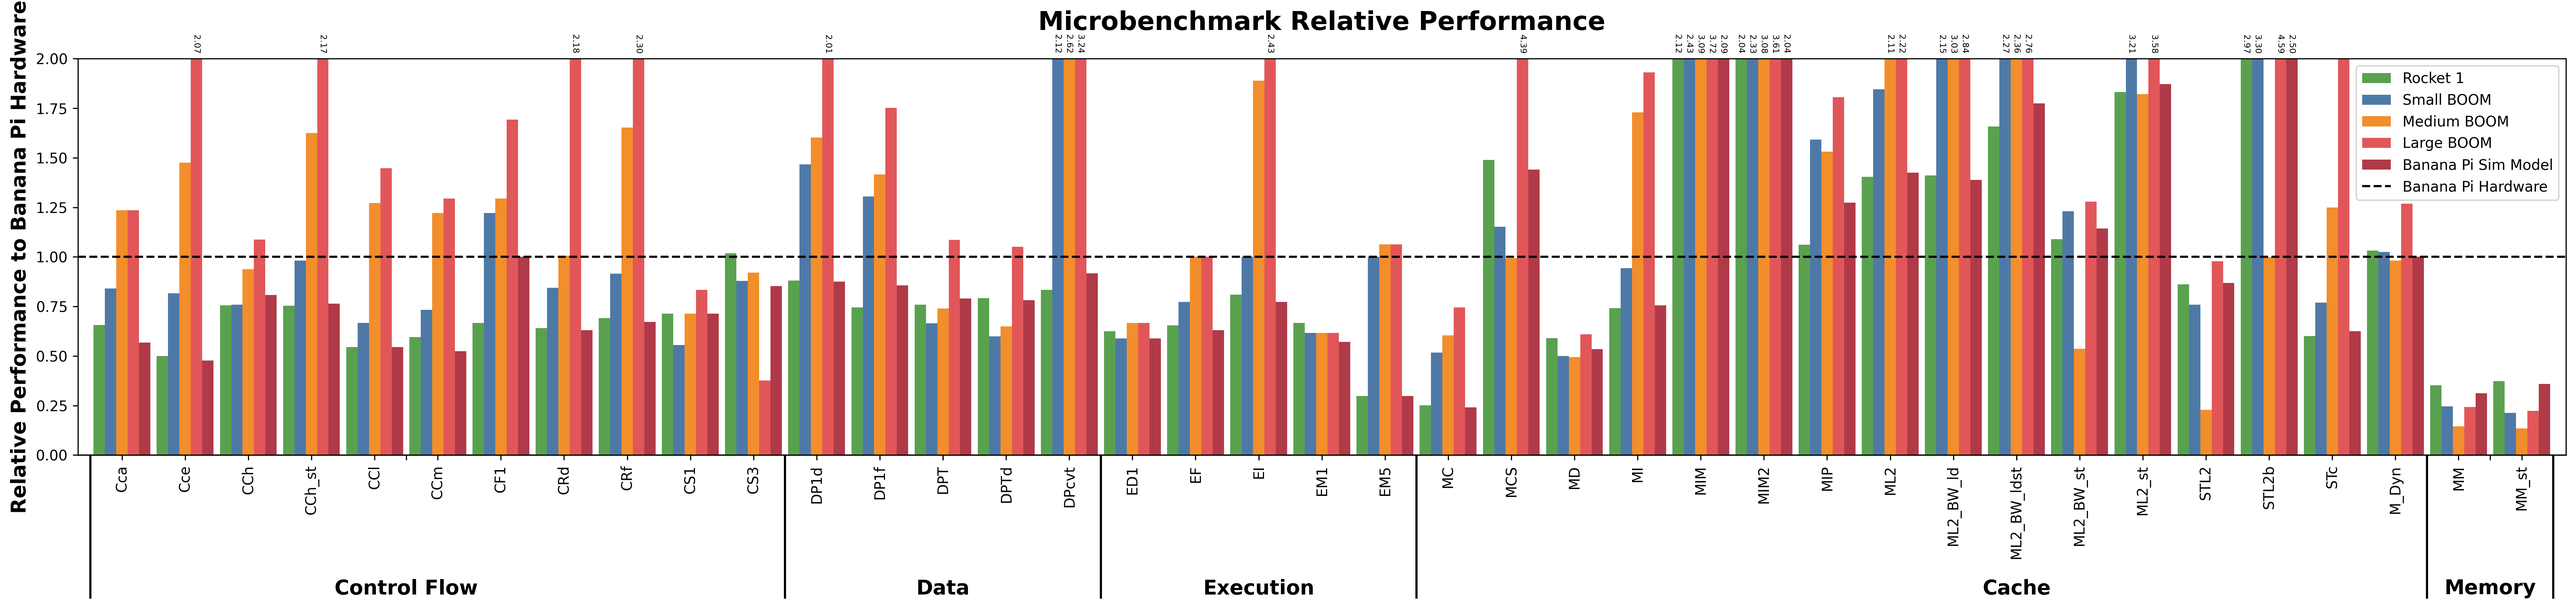
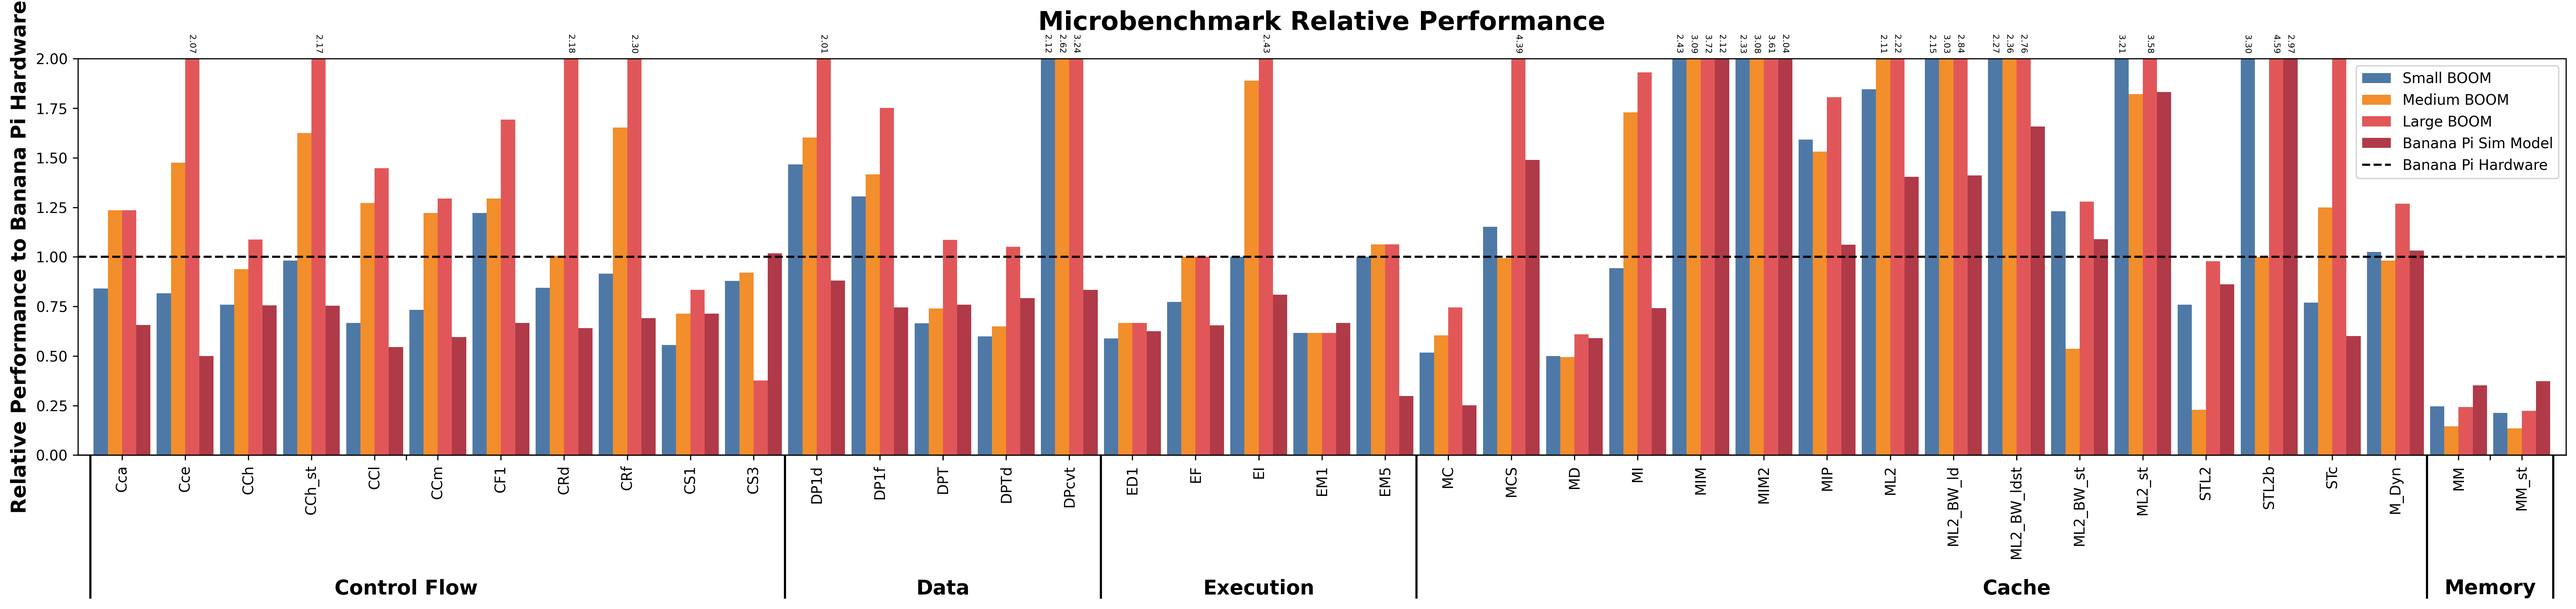
Attempt at subplots to make things more readable for microbench

Changed region(s): [[0.0312, 0.0623, 0.9983, 0.747]]

diff --git a/microbench/microbench.py b/microbench/microbench.py
@@ -3,9 +3,140 @@ import numpy as np
 import matplotlib.pyplot as plt
 import matplotlib.ticker as ticker
 
-def create_plot(df, color_dict, configs, normalized_key, plot_cols, y_label, fig_name):
-
+def create_heatmap(df, configs, normalized_key, plot_cols, fig_name):
     df_normalized = df.copy(deep=True)
+    for config in configs:
+        df_normalized[config] = df_normalized[normalized_key] / df_normalized[config]
+
+    df_normalized.set_index('Benchmark', inplace=True)
+    df_normalized.drop(normalized_key, axis=1, inplace=True)
+    df_normalized.drop('Description', axis=1, inplace=True)
+    df_normalized.drop('Category', axis=1, inplace=True)
+
+    for column_name in df_normalized.columns:
+        if (column_name not in plot_cols):
+            df_normalized.drop(column_name, axis=1, inplace=True)
+
+    df_normalized = df_normalized.T
+
+    fig, ax = plt.subplots(figsize=(18, 8))
+    cax = ax.imshow(df_normalized.values, aspect='auto', cmap='viridis')
+
+    ax.set_xticks(np.arange(len(df_normalized.columns)))
+    ax.set_yticks(np.arange(len(df_normalized.index)))
+    ax.set_xticklabels(df_normalized.columns, rotation=90)
+    ax.set_yticklabels(df_normalized.index)
+
+
+    fig.colorbar(cax, ax=ax)
+
+    ax.set_xlabel('Benchmark')
+
+    plt.tight_layout()
+
+    plt.savefig(fig_name, bbox_inches='tight')
+    plt.show() 
+
+def create_split_plot(df, color_dict, configs, normalized_key, plot_cols, y_label, fig_name):
+    df_normalized = df.copy(deep=True)
+    for config in configs:
+        df_normalized[config] = df_normalized[normalized_key] / df_normalized[config]
+
+    df_normalized.drop(normalized_key, axis=1, inplace=True)
+
+    color_dict_filtered = {key: color_dict[key] for key in plot_cols}
+
+    df_normalized_top = df_normalized[(df_normalized['Category'] == '\n\n\n\n\nControl Flow') | (df_normalized['Category'] == '\n\n\n\n\nData') | (df_normalized['Category'] == '\n\n\n\n\nExecution')]
+    df_normalized_bottom = df_normalized[(df_normalized['Category'] == '\n\n\n\n\nCache') | (df_normalized['Category'] == '\n\n\n\n\nMemory')]
+
+    fig, axes = plt.subplots(2, 1, figsize=(25, 12))
+    fig.suptitle('Microbenchmark Relative Performance to ' + normalized_key, fontsize=20, fontweight='bold')
+
+    ax1 = df_normalized_top.plot.bar(x='Benchmark', y=plot_cols, color=color_dict_filtered, width=0.9, ax=axes[0])
+    ax1.axhline(y=1.0, color='k', linestyle='--', label=normalized_key)
+
+    ax1.legend()
+
+    handles, labels = ax1.get_legend_handles_labels()
+    reordered_handles = handles[1:] + [handles[0]]
+    reordered_labels = labels[1:] + [labels[0]]
+    ax1.legend(reordered_handles, reordered_labels)
+
+    ylim_cutoff = 2.0
+
+    ax1.set(xlabel=None)
+    ax1.set_ylim(0, ylim_cutoff)
+
+    for container in ax1.containers:
+        for bar in container.patches:
+            height = bar.get_height()
+            if height > ylim_cutoff:
+                ax1.text(bar.get_x() + bar.get_width() / 2,
+                        ylim_cutoff,
+                        f'{height:.2f}  ',
+                        ha='center', va='bottom',
+                        color='black', fontsize=12, rotation=270)
+
+    sec = ax1.secondary_xaxis(location=0)
+    sec.set_xticks([4.5, 13, 18], labels=df_normalized_top['Category'].unique())
+
+    sec2 = ax1.secondary_xaxis(location=0)
+    sec2.set_xticks([-0.5, 10.5, 15.5, 20.5], labels=[])
+    sec2.tick_params('x', length=100, width=1.5)
+
+    for label in sec.get_xticklabels():
+        label.set_fontsize(14)
+        label.set_fontweight('bold')
+
+    ax1.set_ylabel(y_label, fontsize=14, fontweight='bold')
+
+    ax2 = df_normalized_bottom.plot.bar(x='Benchmark', y=plot_cols, color=color_dict_filtered, width=0.9, ax=axes[1])
+    ax2.axhline(y=1.0, color='k', linestyle='--', label=normalized_key)
+
+    ax2.legend()
+
+    handles, labels = ax2.get_legend_handles_labels()
+    reordered_handles = handles[1:] + [handles[0]]
+    reordered_labels = labels[1:] + [labels[0]]
+    ax2.legend(reordered_handles, reordered_labels)
+
+    ylim_cutoff = 2.0
+
+    ax2.set(xlabel=None)
+    ax2.set_ylim(0, ylim_cutoff)
+
+    for container in ax2.containers:
+        for bar in container.patches:
+            height = bar.get_height()
+            if height > ylim_cutoff:
+                ax2.text(bar.get_x() + bar.get_width() / 2,
+                        ylim_cutoff,
+                        f'{height:.2f}  ',
+                        ha='center', va='bottom',
+                        color='black', fontsize=12, rotation=270)
+
+    sec3 = ax2.secondary_xaxis(location=0)
+    sec3.set_xticks([8, 16.5], labels=df_normalized_bottom['Category'].unique())
+
+    sec4 = ax2.secondary_xaxis(location=0)
+    sec4.set_xticks([-0.5, 15.5, 17.5], labels=[])
+    sec4.tick_params('x', length=100, width=1.5)
+
+    for label in sec3.get_xticklabels():
+        label.set_fontsize(14)
+        label.set_fontweight('bold')
+
+    ax2.set_ylabel(y_label, fontsize=14, fontweight='bold')
+
+    plt.tight_layout()
+
+    plt.savefig(fig_name, bbox_inches='tight')
+    plt.show()
+
+
+def create_plot(df, color_dict, configs, normalized_key, plot_cols, y_label, fig_name):
+    df_normalized = df.copy(deep=True)
+
     for config in configs:
         df_normalized[config] = df_normalized[normalized_key] / df_normalized[config]
 
@@ -39,7 +170,7 @@ def create_plot(df, color_dict, configs, normalized_key, plot_cols, y_label, fig
                         color='black', fontsize=6, rotation=270)
 
     sec = ax1.secondary_xaxis(location=0)
-    sec.set_xticks([4.5, 13, 18, 30, 37.5], labels=df['Category'].unique())
+    sec.set_xticks([4.5, 13, 18, 30, 37.5], labels=df_normalized['Category'].unique())
 
     sec2 = ax1.secondary_xaxis(location=0)
     sec2.set_xticks([-0.5, 10.5, 15.5, 20.5, 36.5, 38.5], labels=[])
@@ -56,8 +187,6 @@ def create_plot(df, color_dict, configs, normalized_key, plot_cols, y_label, fig
 
     plt.savefig(fig_name, bbox_inches='tight')
     plt.show()
-
-
 
 def main():
     plt.rcParams['figure.dpi'] = 60  # For inline display in notebooks
@@ -78,7 +207,7 @@ def main():
                     'Medium BOOM', 
                     'Large BOOM',  
                     'MILK-V Hardware',  
-                    'Rocket 1',  
+                    'Rocket 1',
                     'Rocket 2', 
                     'Rocket 3',  
                     'Banana Pi Hardware',
@@ -92,16 +221,37 @@ def main():
 
     df['Category'] = '\n\n\n\n\n' + df['Category'].astype(str)
 
-    configs = ['Rocket 1', 'Small BOOM', 'Medium BOOM', 'Large BOOM', 'Banana Pi Sim Model', 'MILK-V Sim Model', 'Banana Pi Hardware', 'MILK-V Hardware']
+    configs = ['Small BOOM', 'Medium BOOM', 'Large BOOM', 'Banana Pi Sim Model', 'MILK-V Sim Model', 'Banana Pi Hardware', 'MILK-V Hardware']
 
-    plot_cols =  ['Rocket 1', 'Small BOOM', 'Medium BOOM', 'Large BOOM', 'Banana Pi Sim Model', 'MILK-V Sim Model', 'Banana Pi Hardware'] 
+    plot_cols =  ['Small BOOM', 'Medium BOOM', 'Large BOOM', 'Banana Pi Sim Model', 'MILK-V Sim Model', 'Banana Pi Hardware'] 
     create_plot(df, color_dict, configs, 'MILK-V Hardware', plot_cols, 'Relative Performance to MILK-V Hardware', 'Micro-All.png')
 
-    plot_cols = ['Rocket 1', 'Small BOOM', 'Medium BOOM', 'Large BOOM', 'Banana Pi Sim Model']
+    plot_cols = ['Small BOOM', 'Medium BOOM', 'Large BOOM', 'Banana Pi Sim Model']
     create_plot(df, color_dict, configs, 'Banana Pi Hardware', plot_cols, 'Relative Performance to Banana Pi Hardware', 'Micro-BPi.png')
 
-    plot_cols = ['Rocket 1', 'Small BOOM', 'Medium BOOM', 'Large BOOM', 'MILK-V Sim Model']
+    plot_cols = ['Small BOOM', 'Medium BOOM', 'Large BOOM', 'MILK-V Sim Model']
     create_plot(df, color_dict, configs, 'MILK-V Hardware', plot_cols, 'Relative Performance to MILK-V Hardware', 'Micro-MILK-V.png')
+
+
+    plot_cols =  ['Small BOOM', 'Medium BOOM', 'Large BOOM', 'Banana Pi Sim Model', 'MILK-V Sim Model', 'Banana Pi Hardware'] 
+    create_split_plot(df, color_dict, configs, 'MILK-V Hardware', plot_cols, 'Relative Performance to MILK-V Hardware', 'Micro-All-Split.png')
+
+    plot_cols = ['Small BOOM', 'Medium BOOM', 'Large BOOM', 'Banana Pi Sim Model']
+    create_split_plot(df, color_dict, configs, 'Banana Pi Hardware', plot_cols, 'Relative Performance to Banana Pi Hardware', 'Micro-BPi-Split.png')
+
+    plot_cols = ['Small BOOM', 'Medium BOOM', 'Large BOOM', 'MILK-V Sim Model']
+    create_split_plot(df, color_dict, configs, 'MILK-V Hardware', plot_cols, 'Relative Performance to MILK-V Hardware', 'Micro-MILK-V-Split.png')
+
+    plot_cols =  ['Small BOOM', 'Medium BOOM', 'Large BOOM', 'Banana Pi Sim Model', 'MILK-V Sim Model', 'Banana Pi Hardware']  
+    create_heatmap(df, configs, 'MILK-V Hardware', plot_cols, 'Micro-MILK-V-Heatmap.png')
+
+    plot_cols = ['Small BOOM', 'Medium BOOM', 'Large BOOM', 'Banana Pi Sim Model']
+    create_heatmap(df, configs, 'Banana Pi Hardware', plot_cols, 'Micro-BPi-Heatmap.png')
+
+    plot_cols = ['Small BOOM', 'Medium BOOM', 'Large BOOM', 'MILK-V Sim Model']
+    create_heatmap(df, configs, 'MILK-V Hardware', plot_cols, 'Micro-MILK-V-Heatmap.png')
+
+
 
 main()
 
